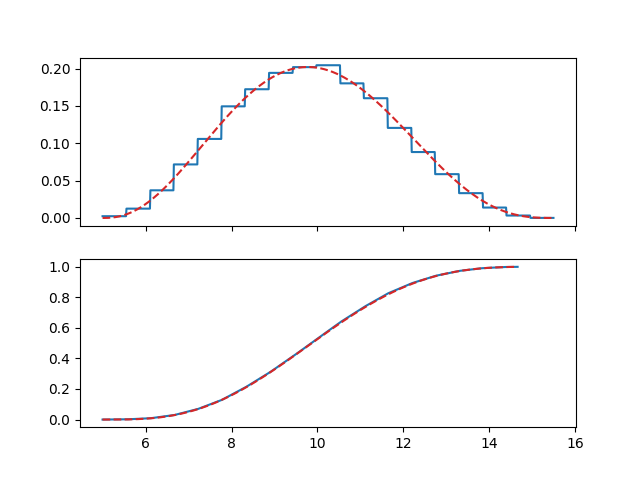
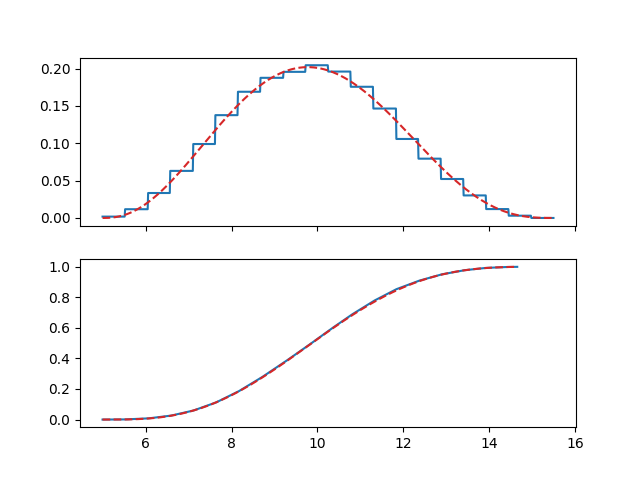
Some updates to histogram

Changed region(s): [[0.1875, 0.125, 0.7188, 0.4688], [0.75, 0.4062, 0.8125, 0.4688], [0.7188, 0.375, 0.75, 0.4062]]

diff --git a/dan/rapid_PE/histogram_infrastructure.py b/dan/rapid_PE/histogram_infrastructure.py
@@ -18,8 +18,24 @@ analytic_color="C3"
 analytic_linestyle = "dashed"
 
 
+def histogram(samples, n_bins, xpy=numpy):
+    n_samples = samples.size
+
+    # Compute the histogram counts.
+    indices = xpy.trunc(samples * n_bins).astype(np.int32)
+    histogram_counts = xpy.bincount(
+        indices, minlength=n_bins,
+        weights=xpy.broadcast_to(
+            xpy.asarray([float(n_bins)/n_samples]),
+            (n_samples,),
+        ),
+    )
+    return histogram_counts
+
+
 class MCSampler(object):
     def __init__(self, xpy=numpy):
+        self.xpy = xpy
         self.setup_hist()
 
     def setup_hist(self):
@@ -38,28 +54,18 @@ class MCSampler(object):
         self.histogram_cdf = {}
 
 
-    def compute_hist(self, x_samples, x_min, x_max, n_bins, param):
+    def setup_hist_single_param(self, x_min, x_max, n_bins, param):
         # Compute the range of allowed values.
         x_max_minus_min = x_max - x_min
-        # Rescale the samples to [0, 1]
-        y_samples = (x_samples - x_min) / x_max_minus_min
         # Compute the points at which the histogram will be evaluated, and store
         # the spacing used.
-        histogram_edges, dx = np.linspace(0.0, 1.0, n_bins, retstep=True)
-        # Evaluate the histogram at each of the bins.
-        histogram_values, _ = np.histogram(
-            y_samples, bins=histogram_edges, density=True,
+        histogram_edges, dx = self.xpy.linspace(
+            0.0, 1.0, n_bins+1,
+            retstep=True,
         )
-        # Evaluate the CDF by taking a cumulative sum of the histogram.
-        histogram_cdf = np.empty(
-            histogram_values.size+1, dtype=histogram_values.dtype,
-        )
-        np.cumsum(histogram_values, out=histogram_cdf[1:])
-        histogram_cdf *= dx
-        histogram_cdf[0] = 0.0
 
-        # Renormalize histogram.
-        histogram_values /= x_max_minus_min
+        # Initialize output array for CDF.
+        histogram_cdf = self.xpy.empty(n_bins+1, dtype=numpy.float64)
 
         # Store basic setup parameters
         self.x_min[param] = x_min
@@ -69,8 +75,29 @@ class MCSampler(object):
         self.n_bins[param] = n_bins
 
         self.histogram_edges[param] = histogram_edges
-        self.histogram_values[param] = histogram_values
         self.histogram_cdf[param] = histogram_cdf
+
+
+    def compute_hist(self, x_samples, param):
+        # Rescale the samples to [0, 1]
+        y_samples = (
+            (x_samples - self.x_min[param]) / self.x_max_minus_min[param]
+        )
+        # Evaluate the histogram at each of the bins.
+        histogram_values = histogram(
+            y_samples, self.n_bins[param],
+            xpy=self.xpy,
+        )
+        # Evaluate the CDF by taking a cumulative sum of the histogram.
+        self.xpy.cumsum(histogram_values, out=self.histogram_cdf[param][1:])
+        self.histogram_cdf[param] *= self.dx[param]
+        self.histogram_cdf[param][0] = 0.0
+
+        # Renormalize histogram.
+        histogram_values /= self.x_max_minus_min[param]
+
+        # Store histogram values.
+        self.histogram_values[param] = histogram_values
 
 
     def cdf_inverse_from_hist(self, P, param):
@@ -86,7 +113,7 @@ class MCSampler(object):
         # Rescale `x` to [0, 1].
         y = (x - self.x_min[param]) / self.x_max_minus_min[param]
         # Compute the indices of the histogram bins that `x` falls into.
-        indices = np.trunc(y / self.dx[param], out=y).astype(np.int32)
+        indices = self.xpy.trunc(y / self.dx[param], out=y).astype(np.int32)
         # Return the value of the histogram.
         return self.histogram_values[param][indices]
 
@@ -112,11 +139,16 @@ def test_beta_dist(
     dist = scipy.stats.beta(alpha, beta, loc=loc, scale=scale)
 
     # Generate random samples used for training.
-    samples = dist.rvs(size=n_samples, random_state=random)
+    samples = xpy.asarray(dist.rvs(size=n_samples, random_state=random))
 
     # Set up the MCSampler object.
-    mc_sampler = MCSampler()
-    mc_sampler.compute_hist(samples, x_min, x_max, n_bins, param)
+    mc_sampler = MCSampler(xpy=xpy)
+    mc_sampler.setup_hist_single_param(
+        xpy.asarray(x_min), xpy.asarray(x_max),
+        n_bins,
+        param,
+    )
+    mc_sampler.compute_hist(samples, param)
 
 
     fig, (ax_pdf, ax_icdf) = plt.subplots(2, sharex=True)
@@ -124,11 +156,16 @@ def test_beta_dist(
     x_plotting = numpy.linspace(x_min, x_max, n_plotting_points+1)[:-1]
     P_plotting = numpy.linspace(0.0, 1.0, n_plotting_points+1)[:-1]
 
+    x_plotting_xpy = xpy.asarray(x_plotting)
+    P_plotting_xpy = xpy.asarray(P_plotting)
+
     pdf_analytic = dist.pdf(x_plotting)
-    pdf_histogram = mc_sampler.pdf_from_hist(x_plotting, param)
+    pdf_histogram = mc_sampler.pdf_from_hist(x_plotting_xpy, param)
 
     icdf_analytic = dist.ppf(P_plotting)
-    icdf_histogram = mc_sampler.cdf_inverse_from_hist(P_plotting, param)
+    icdf_histogram = mc_sampler.cdf_inverse_from_hist(P_plotting_xpy, param)
+    # icdf_analytic = numpy.zeros_like(P_plotting)
+    # icdf_histogram = xpy.zeros_like(P_plotting_xpy)
 
     if xpy is cupy:
         pdf_histogram = cupy.asnumpy(pdf_histogram)
@@ -157,4 +194,5 @@ def test_beta_dist(
 
 test_beta_dist(
     "beta_dist_histogram_test.png", 20000, 20,
+    xpy=numpy,
 )
